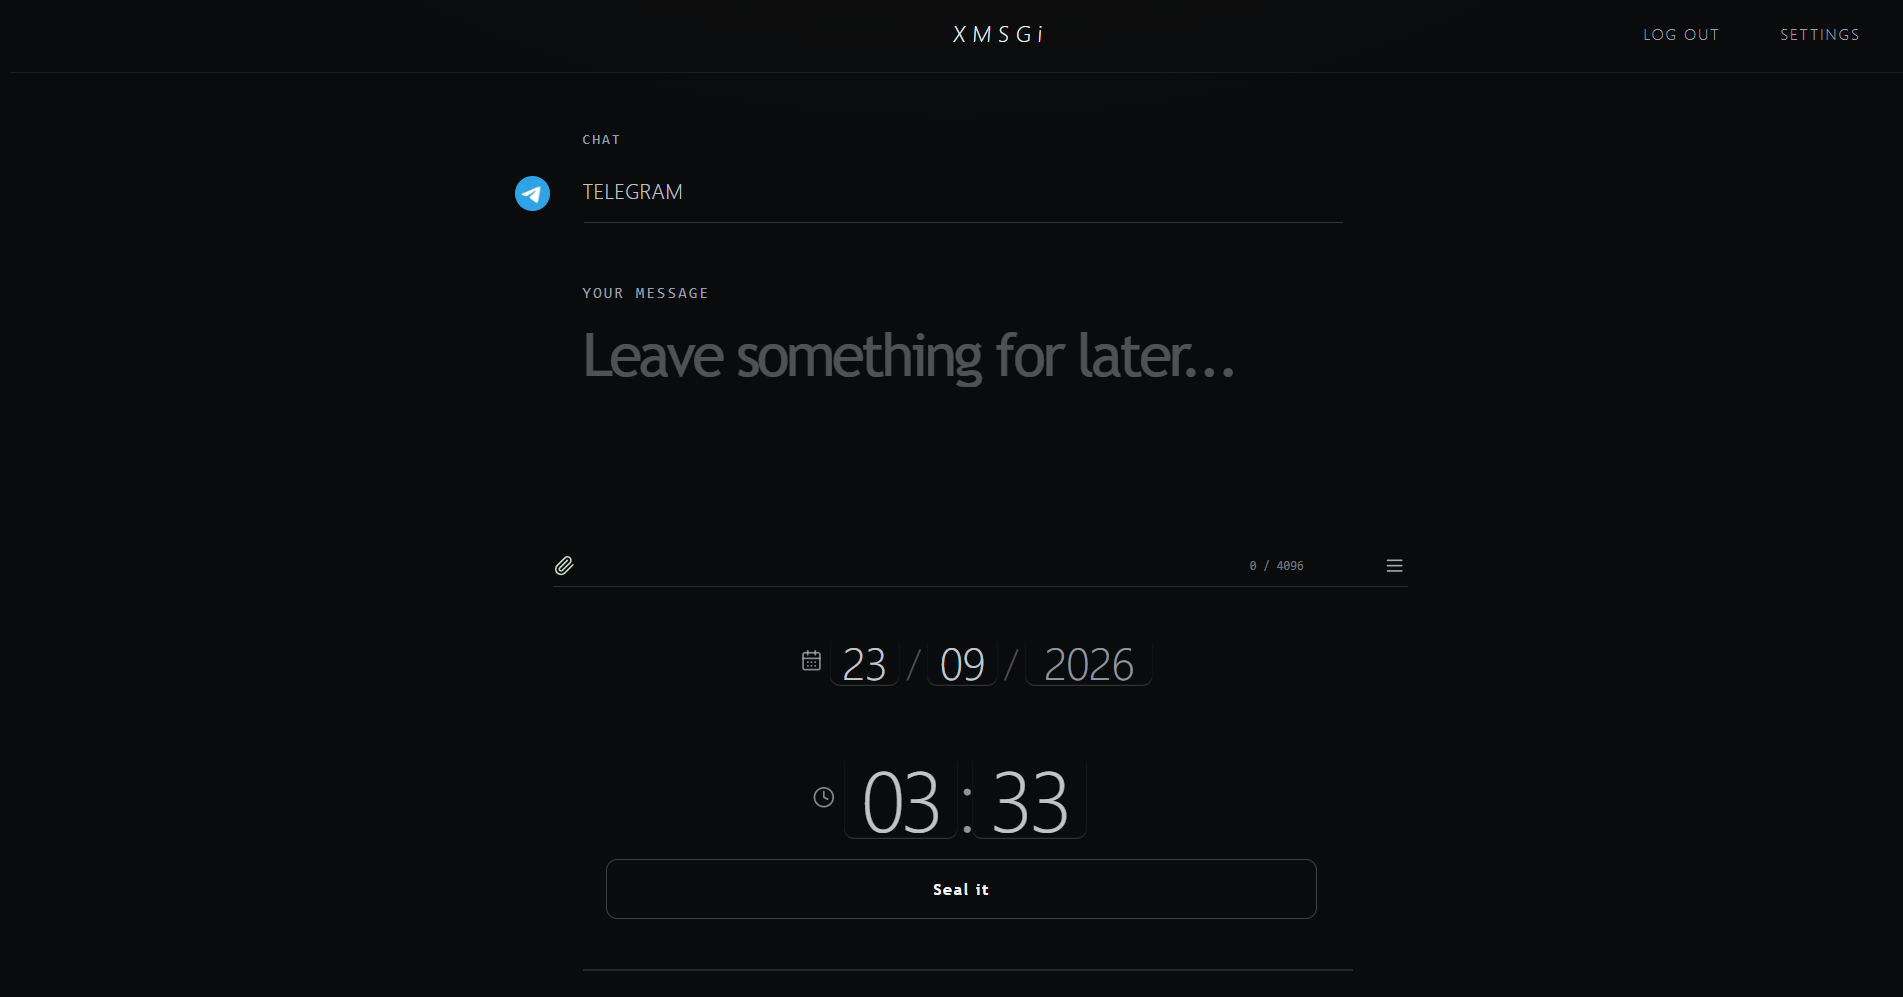
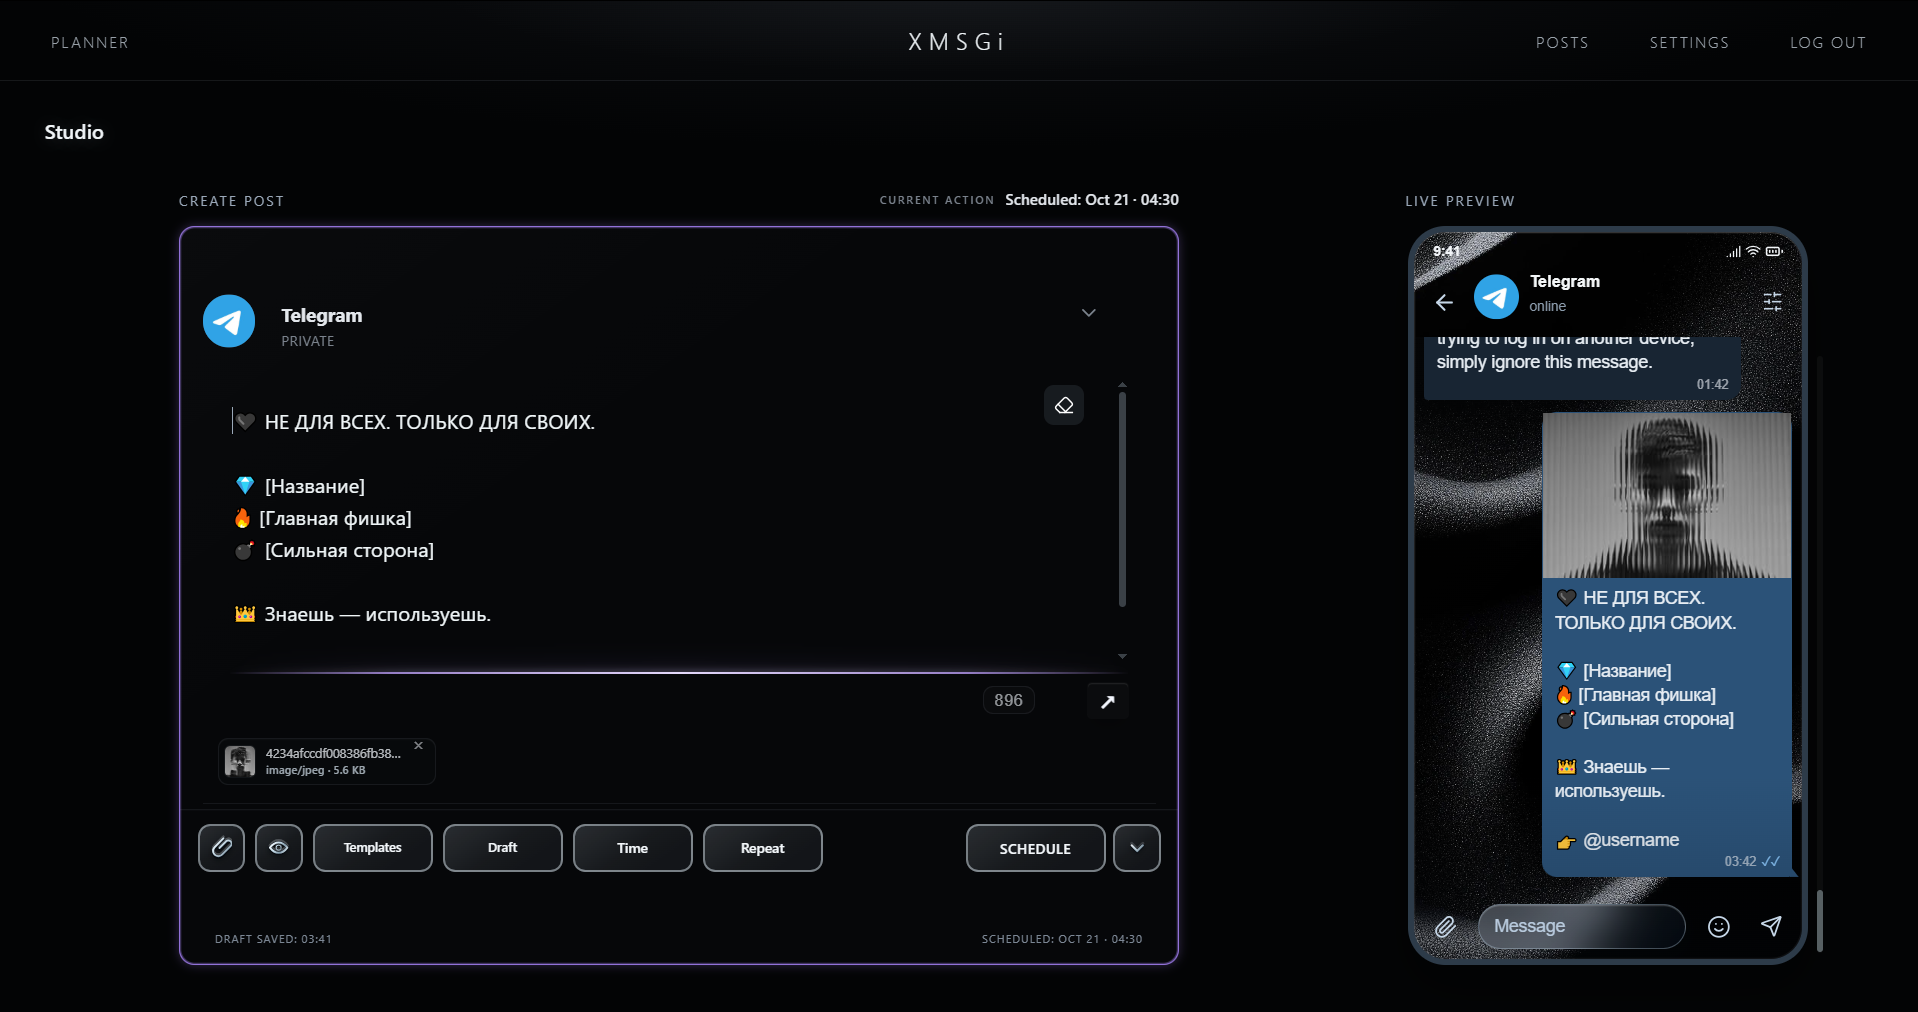
docs: add GitHub repository link and release notes

diff --git a/XMSGi/README.md b/XMSGi/README.md
@@ -57,6 +57,20 @@ We welcome focused pull requests and bug reports. Please read [CONTRIBUTING.md](
 
 Please report vulnerabilities privately through the repository security process. Do not disclose critical issues in public issues or pull requests. See [SECURITY.md](SECURITY.md).
 
+## Repository
+
+GitHub repository:
+
+- https://github.com/molodoy01/XMSGi-Studio.git
+
+To connect this project to the remote repository manually:
+
+```bash
+git remote add origin https://github.com/molodoy01/XMSGi-Studio.git
+git branch -M main
+git push -u origin main
+```
+
 ## License
 
 This project is licensed under the MIT License. See [LICENSE](LICENSE).
